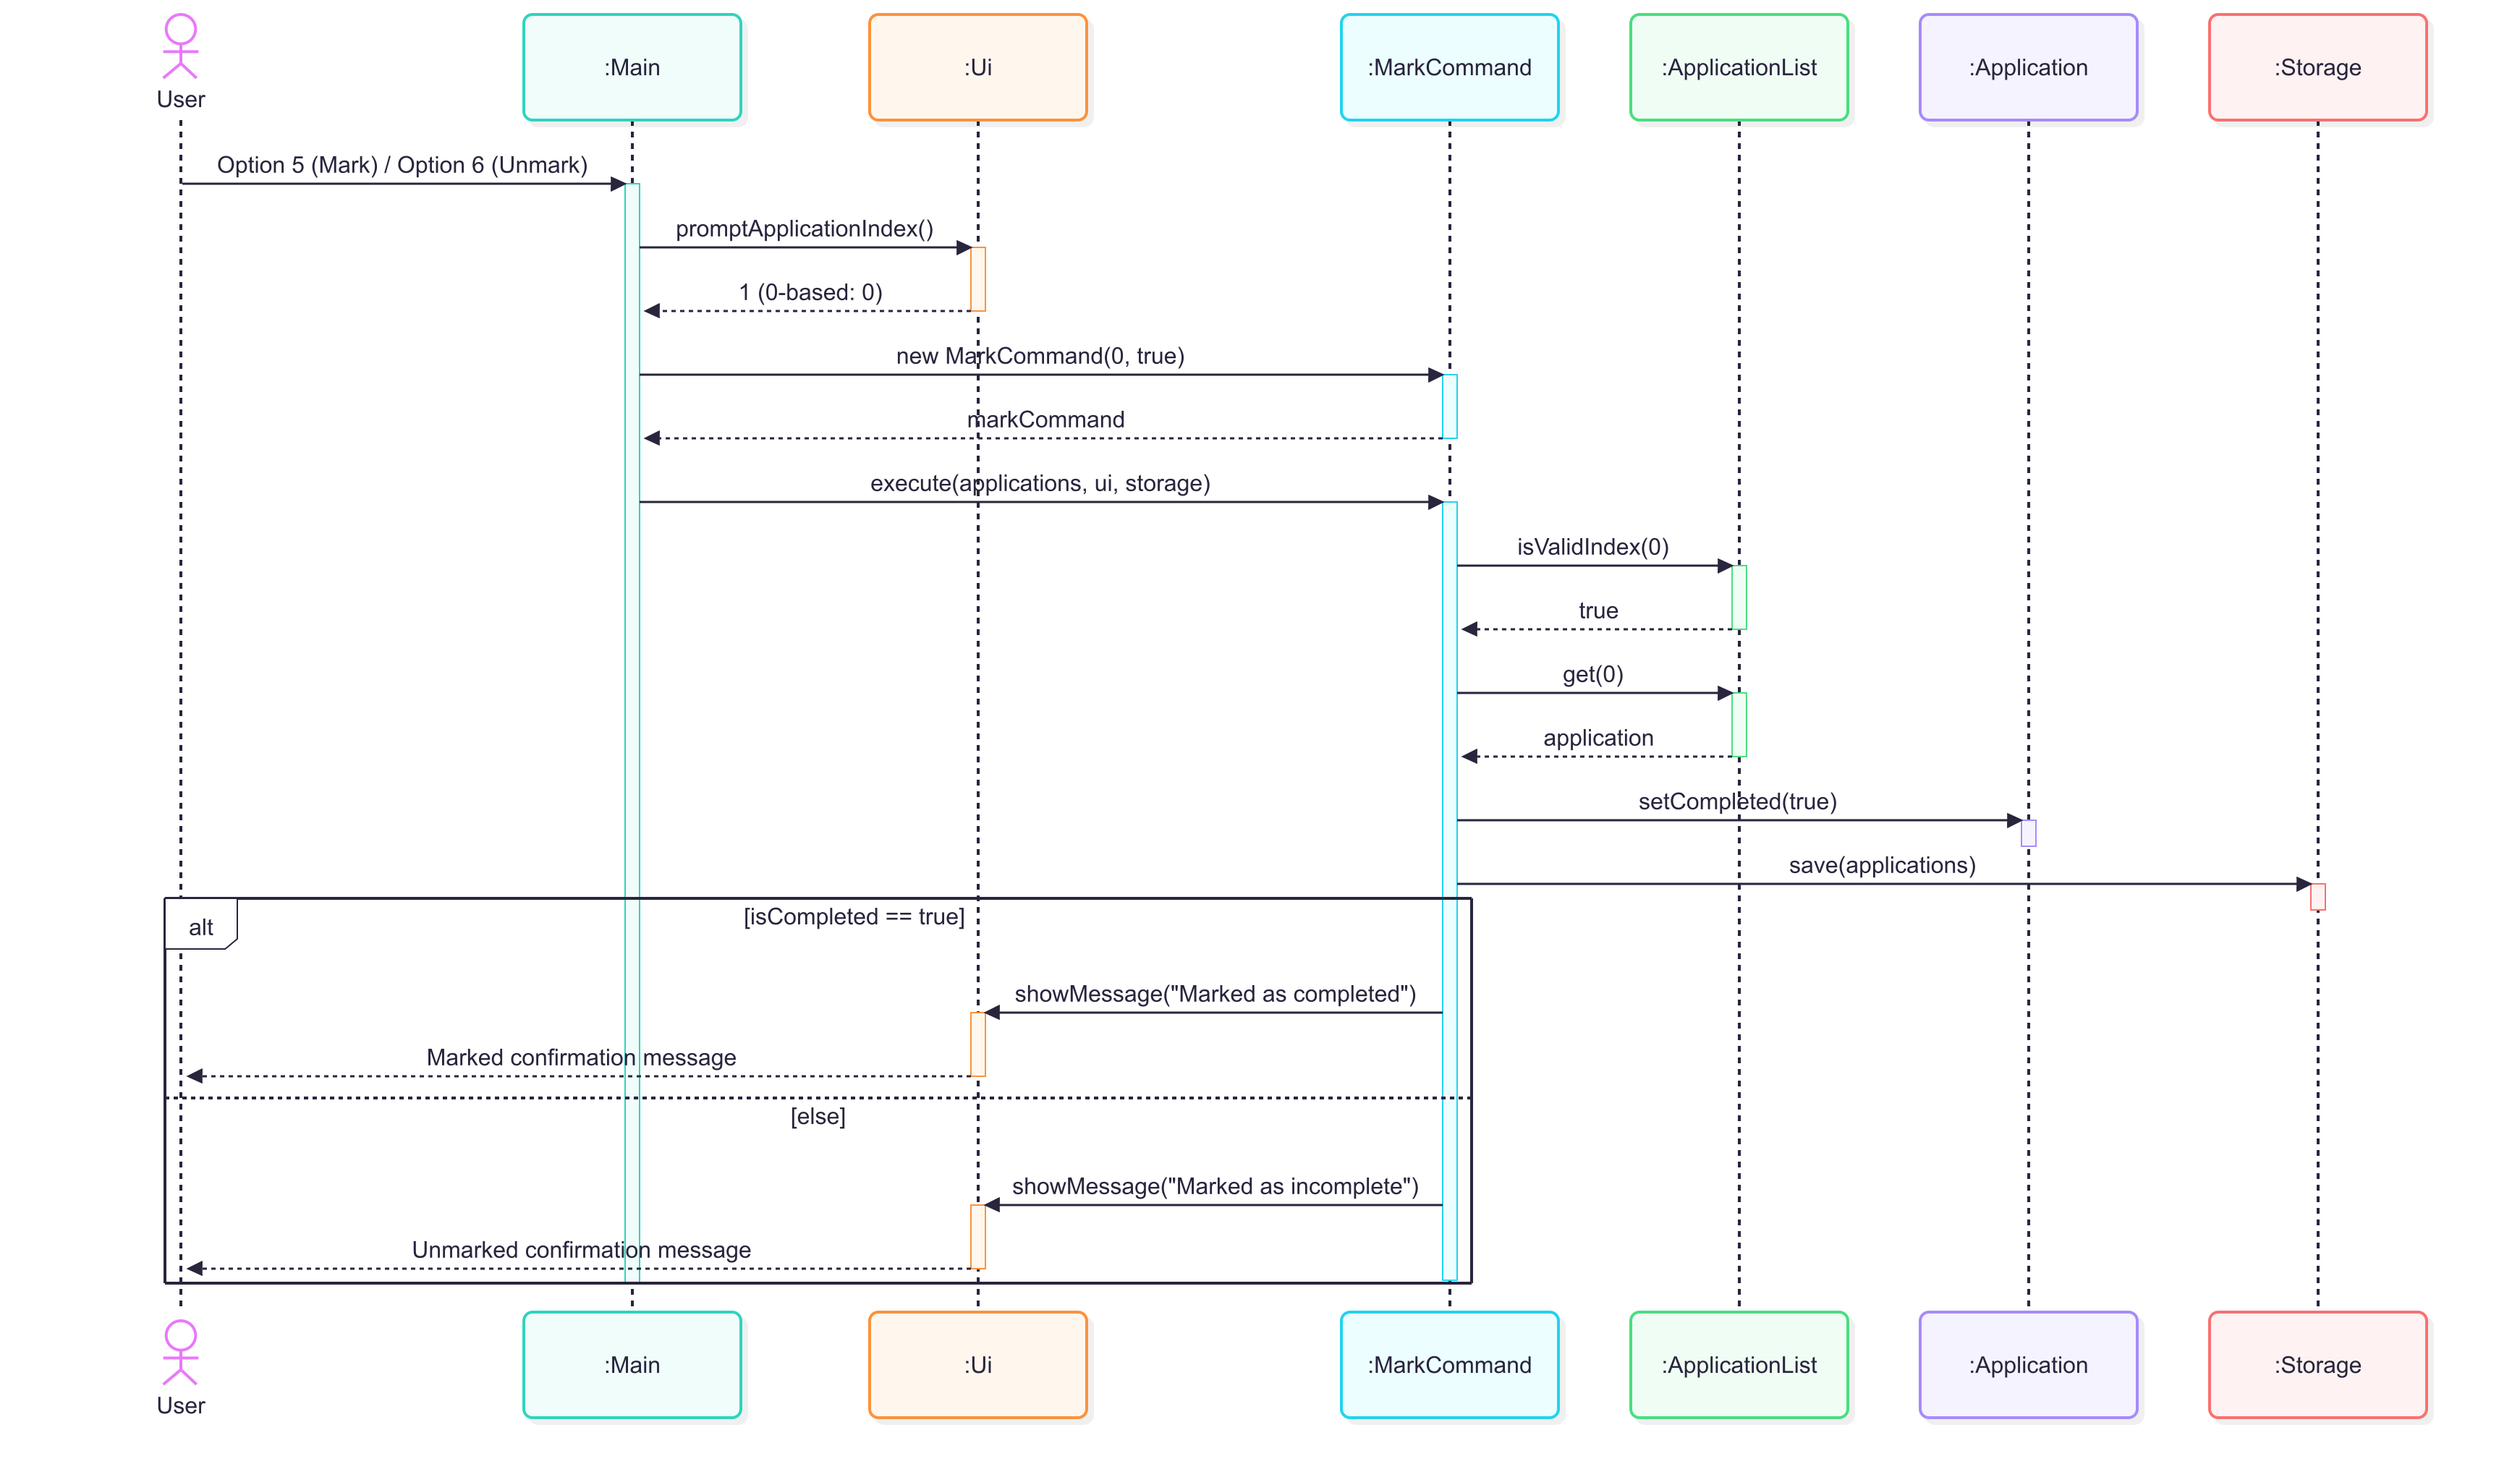
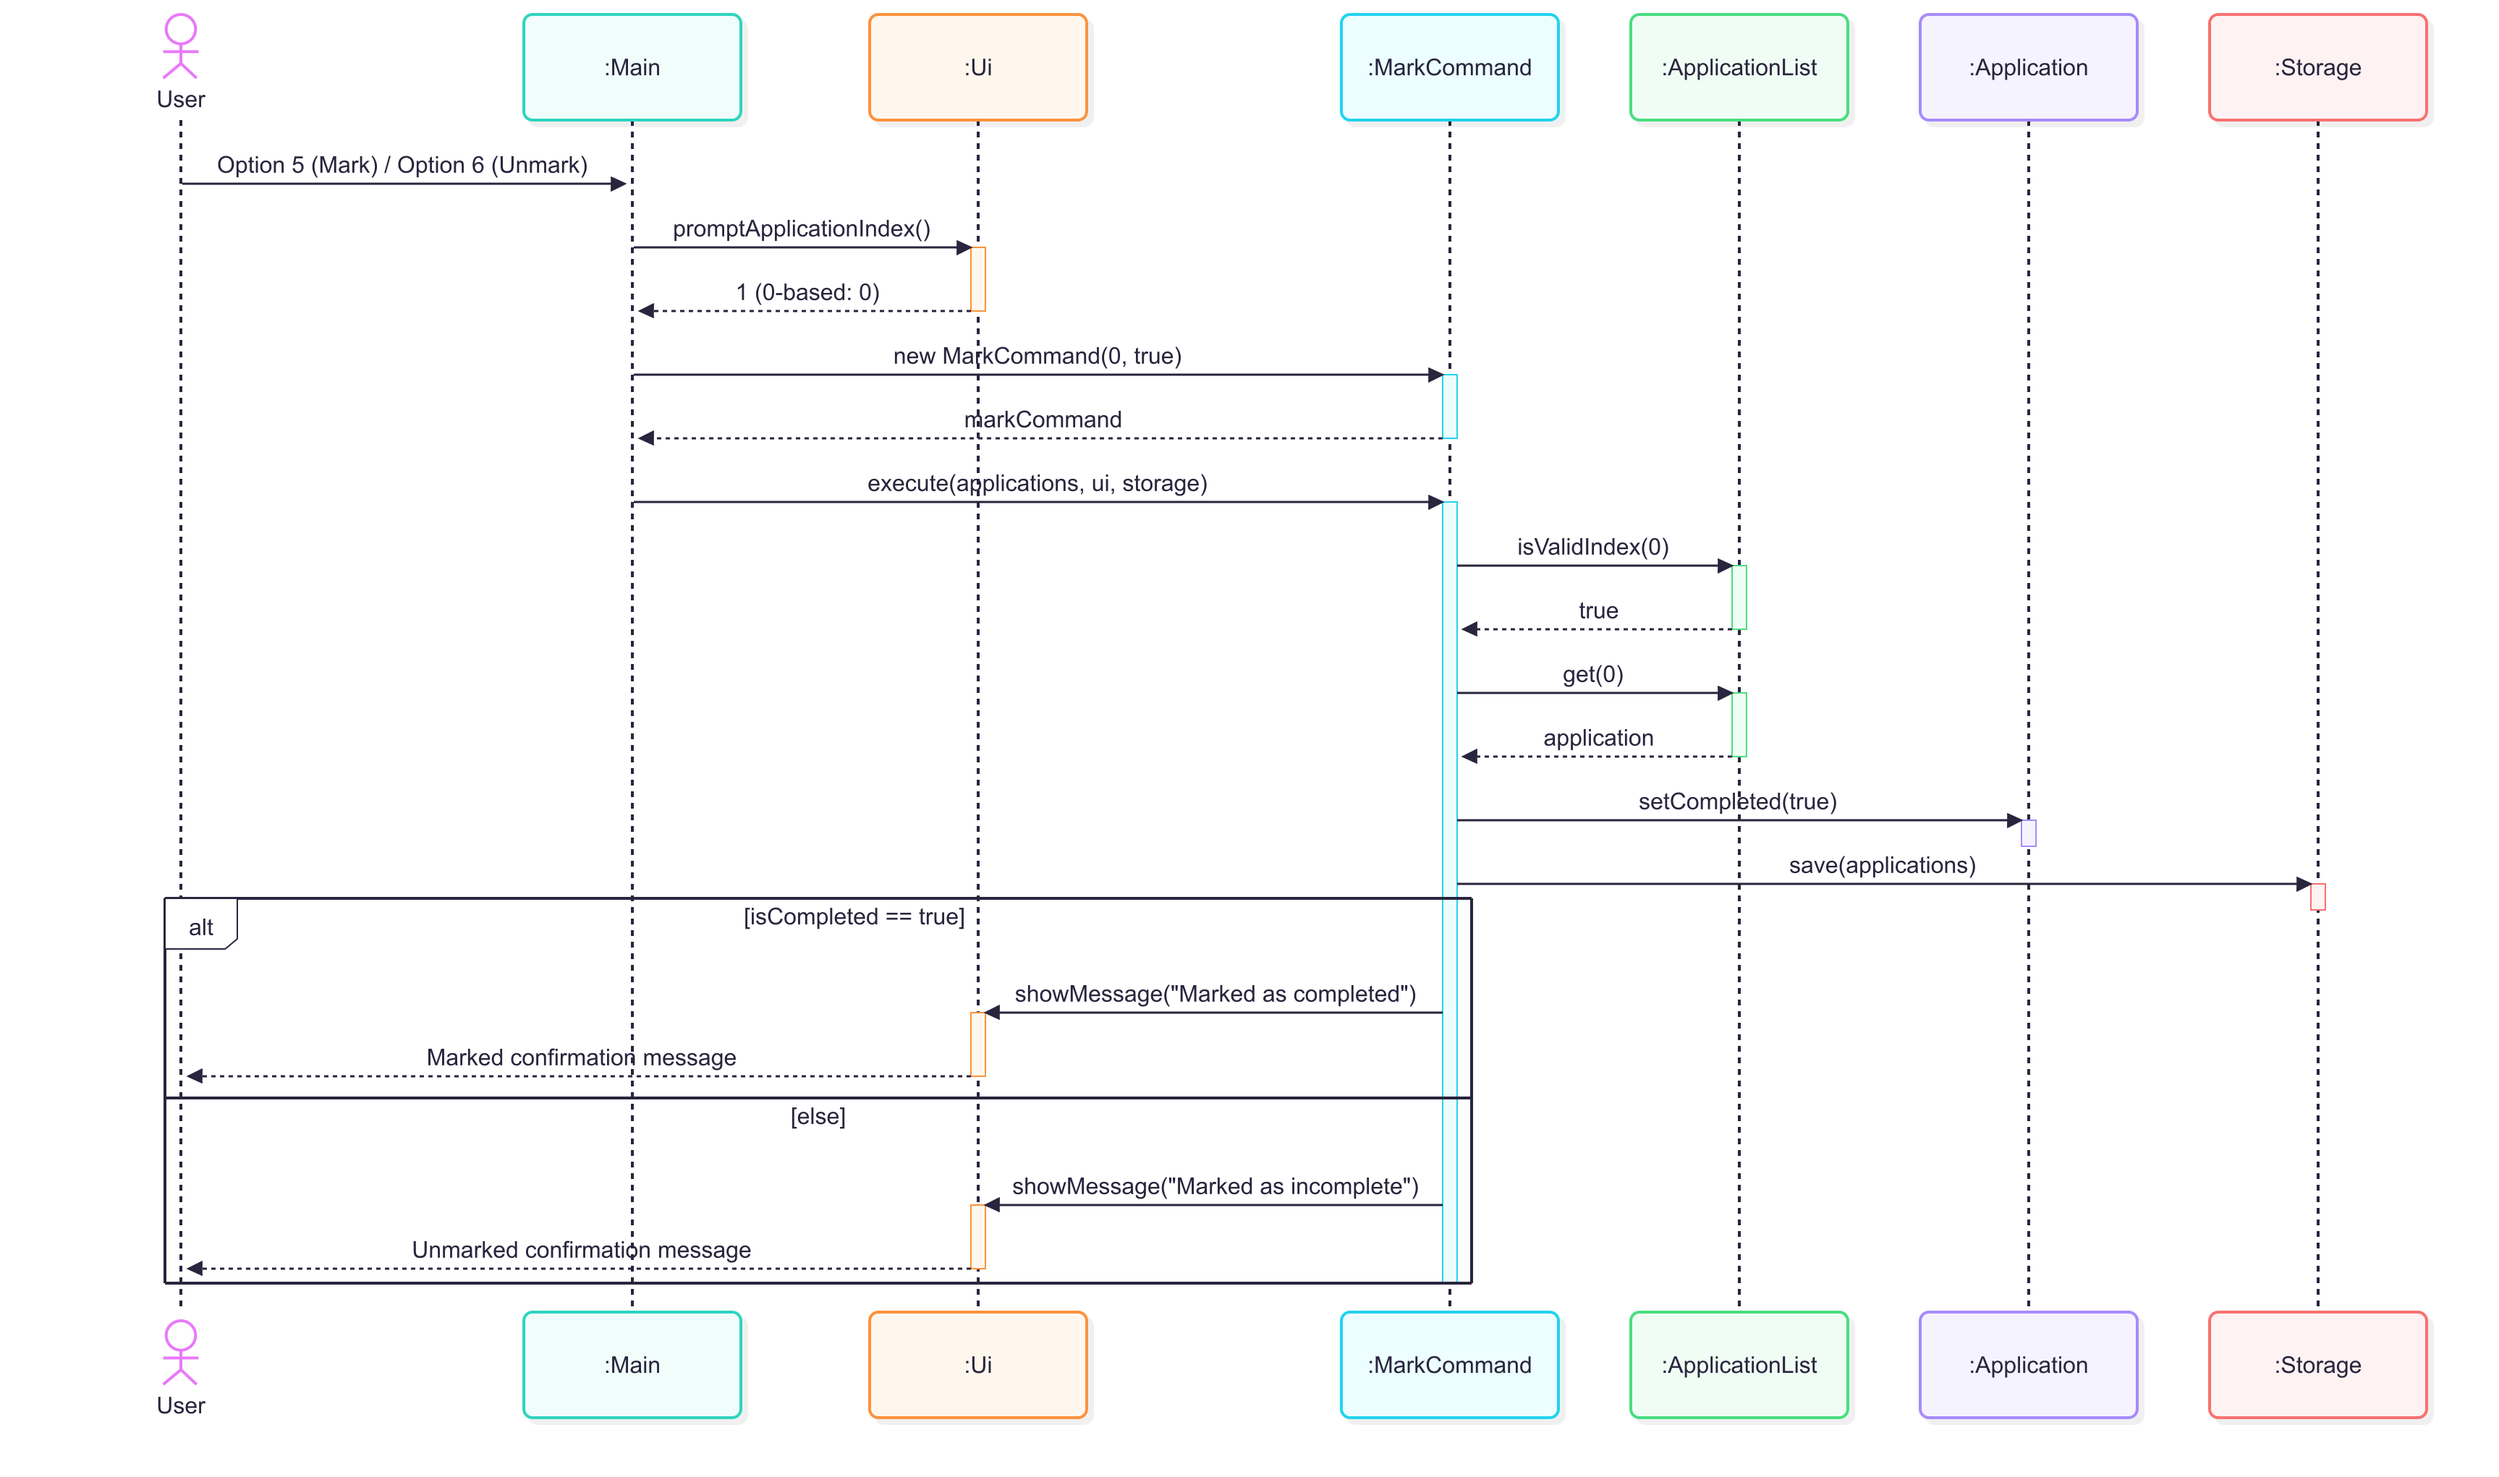
docs: remove activate main to enforce dotted lifelines and use native markdown image tags
- Remove 'activate main' across all sequence diagrams so lifelines descending from :Main are purely dotted lines matching UML standards.
- Revert HTML img tags in DeveloperGuide.md back to native Markdown '![]()' image syntax so GitHub cleanly resolves and renders all relative image paths.
- Re-render and update all 14 sequence diagram PNGs.

diff --git a/docs/DeveloperGuide.md b/docs/DeveloperGuide.md
@@ -27,9 +27,7 @@ JobSeek is a command-line desktop application for managing internship and job ap
 
 The high-level interaction between the user, UI, logic controller, domain model, and storage subsystem is shown below:
 
-<p align="center">
-  <img src="diagrams/architecture-overview.png" width="360" alt="Architecture Overview Diagram">
-</p>
+![Architecture Overview Diagram](diagrams/architecture-overview.png)
 
 #### Application Lifecycle Activity Diagram
 
@@ -71,9 +69,7 @@ The class diagram below illustrates the structural relationships, associations, 
 
 **Data model.** `ApplicationList` owns the `Application` objects. `RecruitmentStage` is an enum, so an application can only be in one of the known stages.
 
-<p align="center">
-  <img src="diagrams/application-model-class.png" width="580" alt="Application Data Model Class Diagram">
-</p>
+![Application Data Model Class Diagram](diagrams/application-model-class.png)
 
 ### Add application feature
 
@@ -493,9 +489,7 @@ The feature involves the following classes:
 
 The class relationships within the storage subsystem are illustrated below:
 
-<p align="center">
-  <img src="diagrams/storage-class.png" width="580" alt="Storage Class Diagram">
-</p>
+![Storage Class Diagram](diagrams/storage-class.png)
 
 #### File format
 
